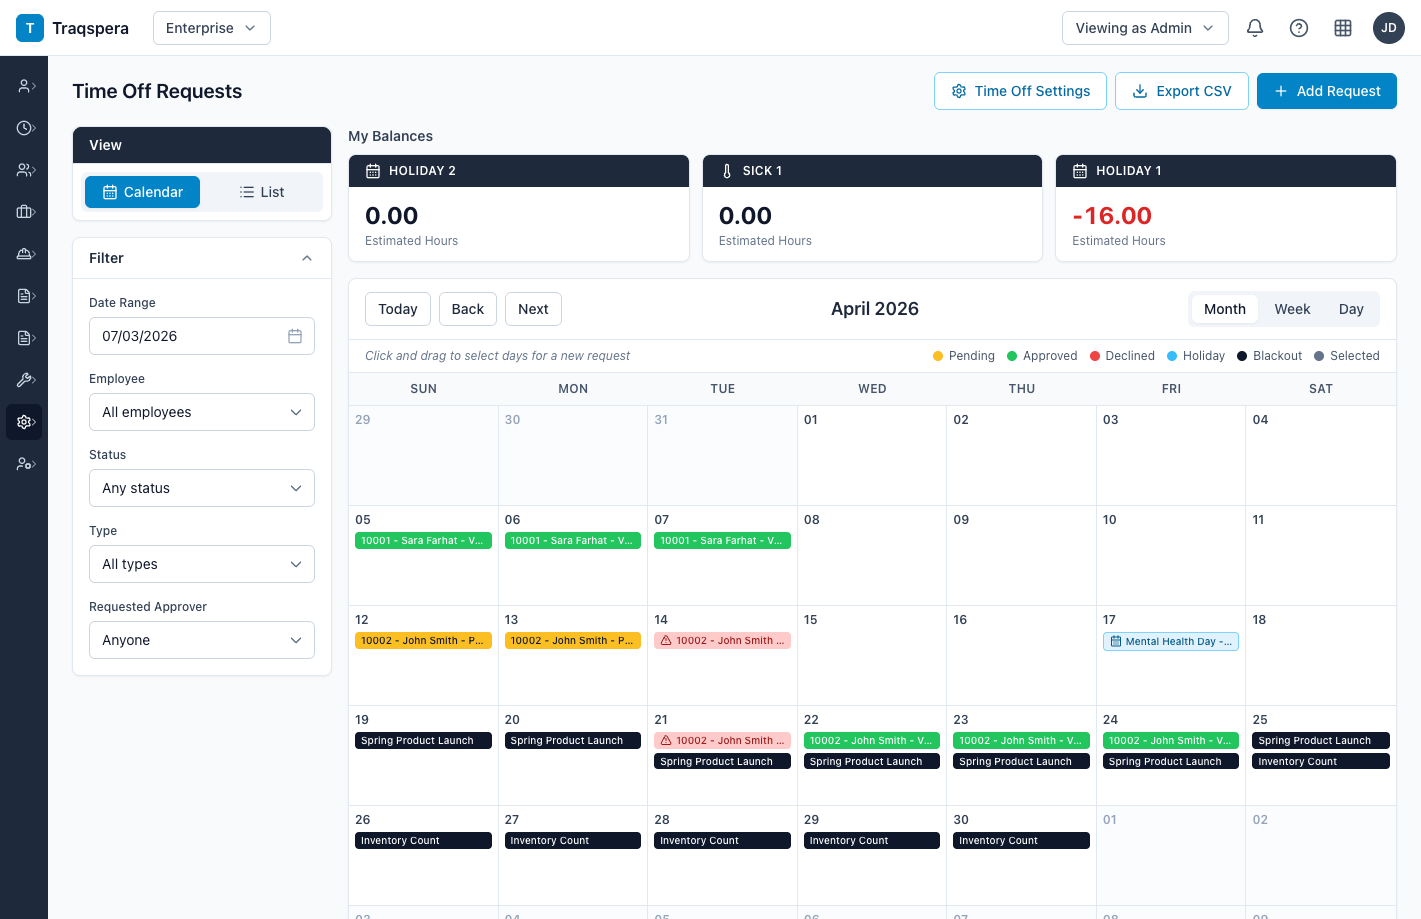
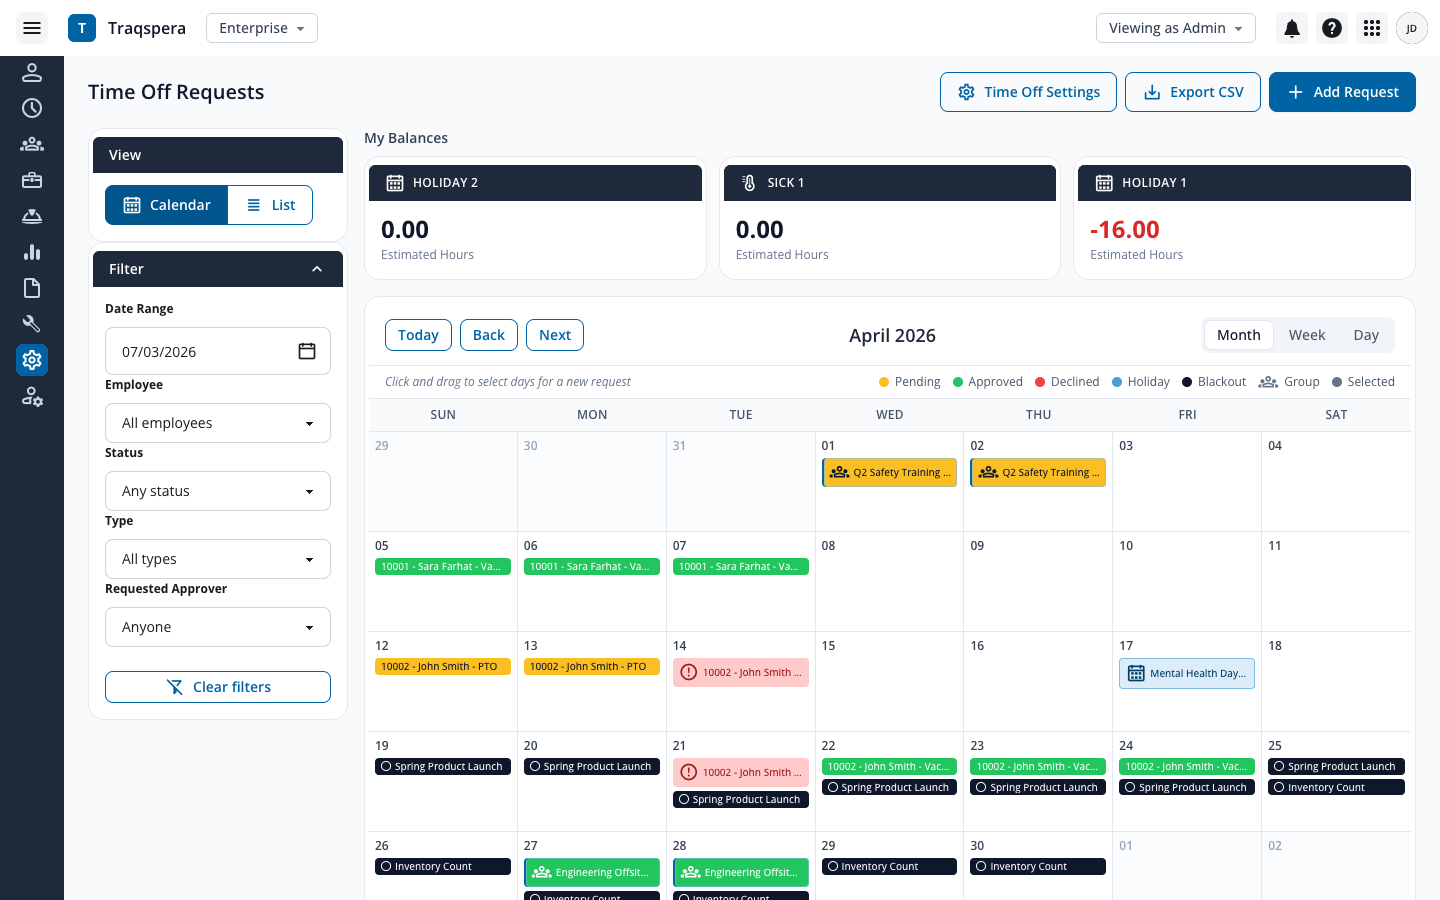
Refresh README previews to match current prototype
- Replace the four outdated June 11 screenshots with five fresh
  captures from the current build: calendar with group events,
  Add Request dropdown, Create Group Request modal, pending approval
  workflow, and fully approved workflow.
- Rewrite the Preview, Whats included, Design system, and Project
  structure sections to reflect the move to Modus Web Components,
  Modus Blue branding, the Type of Time Off dropdown, the Employment
  Status column, group requests on the calendar, and the new
  GroupRequestDetailPage with sequential approval workflow.

diff --git a/README.md b/README.md
@@ -1,6 +1,6 @@
 # Traqspera · Group Time Off Request Prototype
 
-A React + Vite + Tailwind prototype that demonstrates the **Group Time Off Request** flow for the Traqspera Time Off Requests page.
+A React + Vite prototype that demonstrates the **Group Time Off Request** flow for the Traqspera Time Off Requests page, including the full review and approval workflow.
 
 > Live prototype: <https://sarafarhat13.github.io/traqspera-group-time-off>
 
@@ -8,34 +8,65 @@ A React + Vite + Tailwind prototype that demonstrates the **Group Time Off Reque
 
 | Time Off Requests page | Add Request menu |
 | --- | --- |
-| ![Main page](./docs/01-main-page.png) | ![Dropdown](./docs/02-dropdown.png) |
+| ![Calendar with group events](./docs/01-main-page.png) | ![Individual / Group dropdown](./docs/02-dropdown.png) |
 
-| Full-page Group Request modal | Submission confirmation |
+| Create Group Request modal | Approval Workflow — pending |
 | --- | --- |
-| ![Modal](./docs/03-modal.png) | ![Success](./docs/04-success.png) |
+| ![Group request creation](./docs/03-create-modal.png) | ![Pending workflow with Approve / Decline](./docs/04-workflow-pending.png) |
+
+| Approval Workflow — fully approved |
+| --- |
+| ![Fully approved request](./docs/05-workflow-approved.png) |
 
 ## What's included
 
-- **Time Off Requests page** — sidebar, navbar, balances, filters, calendar (April 2026 mock).
-- **Add Request dropdown** with two options: *Individual Request* and *Group Request*.
-- **Full-page Group Request modal** with a two-column layout:
-  - **Left column — Request details**
-    - Type of time off (Paid Time Off, Holiday, Sick Day, Vacation, Team Trip)
-    - Date selection (single day, date range, or multiple individual days)
-    - Hours per day (applied to all selected dates, with 4 / 6 / 8 hour presets)
-    - Approver dropdown
-    - Comment box
-  - **Right column — Employee selection**
-    - Filter panel for Union, Department, Cost Center, Role
-    - Search by name or employee number
-    - Select-all / deselect-all for current filter result
-    - Live "Selected" count chip
-  - **Sticky summary footer** showing total employees, days, hours/day and total hours, plus inline validation and submit action.
-- **Success state** confirming the request after submission.
+### Time Off Requests page
+- Persistent left sidebar + top navbar built with Modus Web Components.
+- Filter panel (Date Range, Employee, Status, Type, Approver) and Calendar / List view toggle.
+- Balances strip (Holiday 2, Sick 1, Holiday 1) with mock balance data.
+- April 2026 calendar with a mix of approved / pending / declined / holiday / blackout events.
+- **Group requests** appear inline on the calendar with a `people_group` icon, a Modus-blue left accent, and a "Group" entry in the legend.
+
+### Add Request menu
+- Manager dropdown with two options: *Individual Request* and *Group Request*.
+
+### Create Group Request (full-page modal)
+- **Left column — Request details**
+  - Type of time off (Paid Time Off, Holiday, Sick Day, Vacation, Team Trip) as a `ModusWcSelect` dropdown.
+  - Date selection: single day, date range, or multiple individual days (with chip removal).
+  - Hours per day with 4 / 6 / 8 hour presets.
+  - Approver dropdown.
+  - Optional comment textarea.
+- **Right column — Employee selection**
+  - Searchable, sortable table powered by mocked employee data (36 employees).
+  - Filters: Union, Department, Cost Center, Role, Employment Status.
+  - Each row shows avatar, name, employee number, role, cost center, and a color-coded **Employment Status** pill (Full-Time, Part-Time, Contract, Seasonal, Temporary).
+  - Select-all / deselect-all respects the current filter result and live "Selected" count chip.
+- **Sticky summary footer** showing total employees, days, hours/day, total hours, plus inline validation and the submit action.
+
+### Group Request detail page (with approval workflow)
+A full-page route — not a modal — used to review and act on group requests.
+
+- **Top bar** — back arrow + breadcrumb + a single Close button.
+- **Main card (left)**
+  - Title, request number, and submitter avatar block (`Submitted by … on …`).
+  - Detail rows: Date range, Hours per day, Description.
+  - Conditional coverage warning while the request is still pending.
+  - **Employees** section: count badge, Group by (None / Department / Role), total hours, and a clean read-only roster with department, role, employment status pill, and hours.
+- **Approval Workflow card (right)**
+  - Header status badge: `Pending`, `Approved`, or `Declined` (derived from the chain).
+  - **Approvals Progress** bar (X of N approved; turns red on a declined workflow).
+  - Vertical workflow timeline with one entry per step: status icon, role label, approver avatar + title, "You" badge when the viewer is the active approver, action timestamp, optional italic comment, and an `Awaiting your action` callout on the current step.
+  - **Your decision** block (only visible to the active approver): comment textarea + outlined `Decline` (close icon) and solid `Approve` (check icon) buttons.
+  - Dynamic bottom hint that adapts to in-progress / approved / declined state.
+
+The mock data ships with one **pending** request (Q2 Safety Training — manager has approved, HR Business Partner is the current step, payroll is awaiting) and one **fully approved** request (Engineering Offsite — all three steps signed off with timestamps and comments).
 
 ## Design system
 
-Styling is driven by Tailwind tokens that mirror the **Modus Blueprint Design System** (Inter typography, sky-blue primary, slate neutrals, success / warning / danger semantics, etc.). Tokens live in [`tailwind.config.js`](./tailwind.config.js) and component primitives in [`src/index.css`](./src/index.css).
+The UI is built with **[Modus Web Components](https://modus.trimble.com/)** wrapped in their React bindings (`@trimble-oss/moduswebcomponents-react`). Brand color is centered on **Modus Blue `#0063a3`**, which lives at the `primary.600` step of the Tailwind palette so that every Modus and custom button picks up the brand without per-component changes.
+
+Tokens live in [`tailwind.config.js`](./tailwind.config.js) and component primitives in [`src/index.css`](./src/index.css).
 
 ## Local development
 
@@ -65,24 +96,27 @@ That command runs `npm run build` first, then publishes the `dist/` folder to th
 
 ```
 src/
-  App.jsx                       # App shell
-  main.jsx                      # React entry
-  index.css                     # Tailwind + design tokens
-  data/mockData.js              # Employees, balances, calendar events
+  App.jsx                          # App shell
+  main.jsx                         # React entry (registers Modus custom elements)
+  index.css                        # Tailwind + Modus helper styles
+  data/mockData.js                 # Employees, balances, calendar events, group requests
   components/
     Navbar.jsx
     Sidebar.jsx
-    TimeOffPage.jsx             # Time Off Requests page
+    TimeOffPage.jsx                # Time Off Requests page
     BalanceCards.jsx
     FilterPanel.jsx
     ViewToggle.jsx
-    CalendarView.jsx
-    AddRequestMenu.jsx          # "Add Request" dropdown
-    GroupRequestModal.jsx       # Full-page Group Request modal
-    EmployeeSelector.jsx        # Filters + employee list
+    CalendarView.jsx               # Calendar (renders individual + group events)
+    AddRequestMenu.jsx             # Add Request dropdown
+    GroupRequestModal.jsx          # Create Group Request (full-page form)
+    EmployeeSelector.jsx           # Searchable employee table + filters
+    GroupRequestDetailPage.jsx     # Group request review + approval workflow page
+    PendingRequestModal.jsx        # Individual request review modal
 ```
 
 ## Notes
 
 - All data is mocked client-side. There are no API calls.
-- The submit handler logs the request payload to the console — wire this up to your backend when integrating.
+- The submit handlers log the resulting payload to the console — wire them up to your backend when integrating.
+- The approval chain is a simple sequential model (`Manager → HR → Payroll`); the same pattern can be extended to additional roles or parallel approvers.
